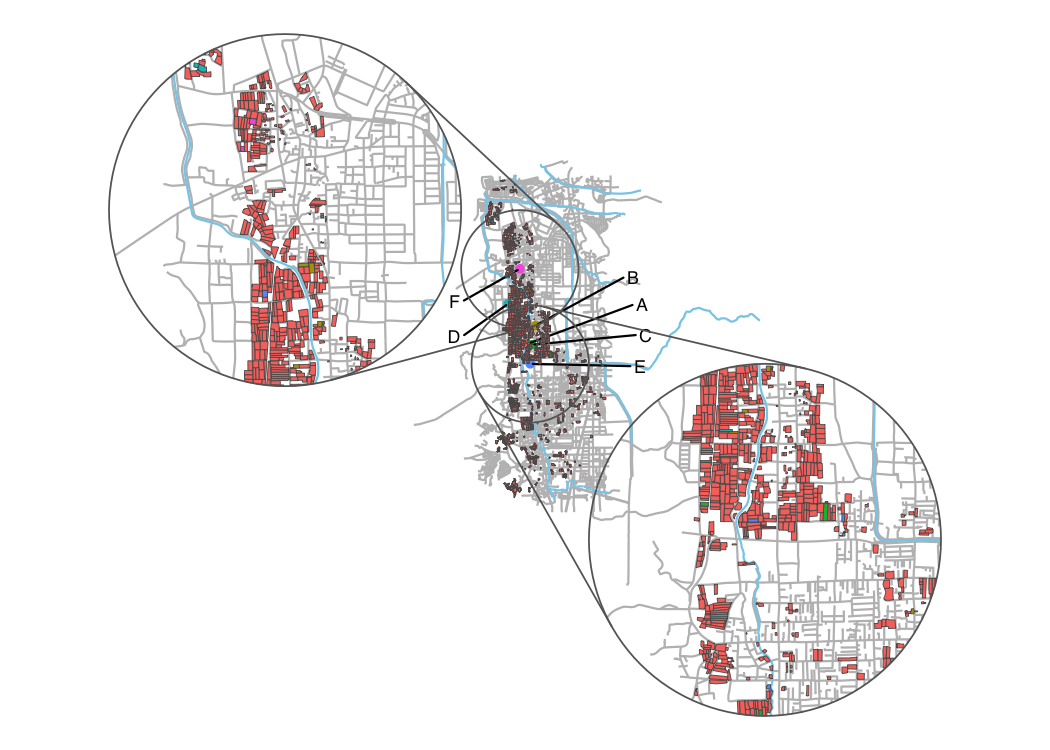
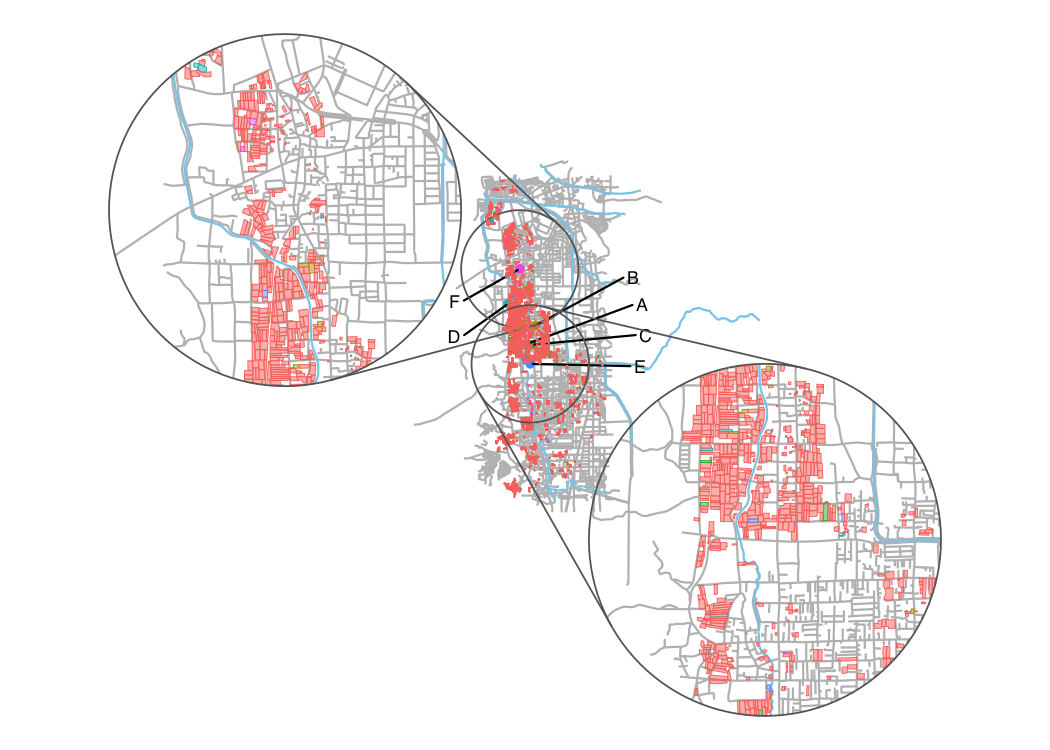
0.3.6.9000

diff --git a/docs/index.html b/docs/index.html
@@ -379,11 +379,11 @@
 <span>                  family <span class="op">=</span> <span class="st">"Helvetica"</span><span class="op">)</span> <span class="op">+</span></span>
 <span>  <span class="fu"><a href="https://cidm-ph.github.io/ggmapinset/reference/geom_sf_inset.html" class="external-link">geom_sf_inset</a></span><span class="op">(</span>data <span class="op">=</span> <span class="va">streets</span><span class="op">$</span><span class="va">osm_lines</span>, colour <span class="op">=</span> <span class="st">"gray"</span>, map_base <span class="op">=</span> <span class="st">"none"</span>, inset <span class="op">=</span> <span class="va">inset1</span><span class="op">)</span> <span class="op">+</span></span>
 <span>  <span class="fu"><a href="https://cidm-ph.github.io/ggmapinset/reference/geom_sf_inset.html" class="external-link">geom_sf_inset</a></span><span class="op">(</span>data <span class="op">=</span> <span class="va">river</span><span class="op">$</span><span class="va">osm_lines</span>, colour <span class="op">=</span> <span class="st">"skyblue"</span>, map_base <span class="op">=</span> <span class="st">"none"</span>, inset <span class="op">=</span> <span class="va">inset1</span><span class="op">)</span> <span class="op">+</span></span>
-<span>  <span class="fu"><a href="https://cidm-ph.github.io/ggmapinset/reference/geom_sf_inset.html" class="external-link">geom_sf_inset</a></span><span class="op">(</span><span class="fu"><a href="https://ggplot2.tidyverse.org/reference/aes.html" class="external-link">aes</a></span><span class="op">(</span>fill <span class="op">=</span> <span class="va">farmer</span><span class="op">)</span>, alpha <span class="op">=</span> <span class="fl">1</span>, map_base <span class="op">=</span> <span class="st">"normal"</span>, inset <span class="op">=</span> <span class="va">inset1</span><span class="op">)</span> <span class="op">+</span></span>
+<span>  <span class="fu"><a href="https://cidm-ph.github.io/ggmapinset/reference/geom_sf_inset.html" class="external-link">geom_sf_inset</a></span><span class="op">(</span><span class="fu"><a href="https://ggplot2.tidyverse.org/reference/aes.html" class="external-link">aes</a></span><span class="op">(</span>fill <span class="op">=</span> <span class="va">farmer</span>, colour <span class="op">=</span> <span class="va">farmer</span><span class="op">)</span>, alpha <span class="op">=</span> <span class="fl">.5</span>, map_base <span class="op">=</span> <span class="st">"normal"</span>, inset <span class="op">=</span> <span class="va">inset1</span><span class="op">)</span> <span class="op">+</span></span>
 <span>  <span class="fu"><a href="https://cidm-ph.github.io/ggmapinset/reference/geom_inset_frame.html" class="external-link">geom_inset_frame</a></span><span class="op">(</span>inset <span class="op">=</span> <span class="va">inset1</span><span class="op">)</span> <span class="op">+</span></span>
 <span>  <span class="fu"><a href="https://cidm-ph.github.io/ggmapinset/reference/geom_sf_inset.html" class="external-link">geom_sf_inset</a></span><span class="op">(</span>data <span class="op">=</span> <span class="va">streets</span><span class="op">$</span><span class="va">osm_lines</span>, colour <span class="op">=</span> <span class="st">"gray"</span>, map_base <span class="op">=</span> <span class="st">"none"</span>, inset <span class="op">=</span> <span class="va">inset2</span><span class="op">)</span> <span class="op">+</span></span>
 <span>  <span class="fu"><a href="https://cidm-ph.github.io/ggmapinset/reference/geom_sf_inset.html" class="external-link">geom_sf_inset</a></span><span class="op">(</span>data <span class="op">=</span> <span class="va">river</span><span class="op">$</span><span class="va">osm_lines</span>, colour <span class="op">=</span> <span class="st">"skyblue"</span>, map_base <span class="op">=</span> <span class="st">"none"</span>, inset <span class="op">=</span> <span class="va">inset2</span><span class="op">)</span> <span class="op">+</span></span>
-<span>  <span class="fu"><a href="https://cidm-ph.github.io/ggmapinset/reference/geom_sf_inset.html" class="external-link">geom_sf_inset</a></span><span class="op">(</span><span class="fu"><a href="https://ggplot2.tidyverse.org/reference/aes.html" class="external-link">aes</a></span><span class="op">(</span>fill <span class="op">=</span> <span class="va">farmer</span><span class="op">)</span>, alpha <span class="op">=</span> <span class="fl">1</span>, map_base <span class="op">=</span> <span class="st">"normal"</span>, inset <span class="op">=</span> <span class="va">inset2</span><span class="op">)</span> <span class="op">+</span></span>
+<span>  <span class="fu"><a href="https://cidm-ph.github.io/ggmapinset/reference/geom_sf_inset.html" class="external-link">geom_sf_inset</a></span><span class="op">(</span><span class="fu"><a href="https://ggplot2.tidyverse.org/reference/aes.html" class="external-link">aes</a></span><span class="op">(</span>fill <span class="op">=</span> <span class="va">farmer</span>, colour <span class="op">=</span> <span class="va">farmer</span><span class="op">)</span>, alpha <span class="op">=</span> <span class="fl">.5</span>, map_base <span class="op">=</span> <span class="st">"normal"</span>, inset <span class="op">=</span> <span class="va">inset2</span><span class="op">)</span> <span class="op">+</span></span>
 <span>  <span class="fu"><a href="https://cidm-ph.github.io/ggmapinset/reference/geom_inset_frame.html" class="external-link">geom_inset_frame</a></span><span class="op">(</span>inset <span class="op">=</span> <span class="va">inset2</span><span class="op">)</span> <span class="op">+</span></span>
 <span>  <span class="fu"><a href="https://ggplot2.tidyverse.org/reference/ggtheme.html" class="external-link">theme_void</a></span><span class="op">(</span><span class="op">)</span> <span class="op">+</span></span>
 <span>  <span class="fu"><a href="https://ggplot2.tidyverse.org/reference/theme.html" class="external-link">theme</a></span><span class="op">(</span>legend.position <span class="op">=</span> <span class="st">"none"</span><span class="op">)</span></span></code></pre></div>

diff --git a/docs/reference/rename_fude.html b/docs/reference/rename_fude.html
@@ -99,7 +99,7 @@ Japanese. Romanji format is upper case unless specified.</p><ul><li><p><code>"ti
     <div class="sourceCode"><pre class="sourceCode r"><code><span class="r-in"><span><span class="va">path</span> <span class="op">&lt;-</span> <span class="fu"><a href="https://rdrr.io/r/base/system.file.html" class="external-link">system.file</a></span><span class="op">(</span><span class="st">"extdata"</span>, <span class="st">"castle.zip"</span>, package <span class="op">=</span> <span class="st">"fude"</span><span class="op">)</span></span></span>
 <span class="r-in"><span><span class="va">d</span> <span class="op">&lt;-</span> <span class="fu"><a href="read_fude.html">read_fude</a></span><span class="op">(</span><span class="va">path</span>, stringsAsFactors <span class="op">=</span> <span class="cn">FALSE</span>, quiet <span class="op">=</span> <span class="cn">FALSE</span><span class="op">)</span></span></span>
 <span class="r-out co"><span class="r-pr">#&gt;</span> Reading layer `2021_382019' from data source </span>
-<span class="r-out co"><span class="r-pr">#&gt;</span>   `/private/var/folders/33/1nmp7drn6c56394qxrzb2cth0000gn/T/RtmpvSPdnl/file137ca50a7437f/castle/2021_382019.json' </span>
+<span class="r-out co"><span class="r-pr">#&gt;</span>   `/private/var/folders/33/1nmp7drn6c56394qxrzb2cth0000gn/T/RtmpUeuXwq/file13b236dad3f7f/castle/2021_382019.json' </span>
 <span class="r-out co"><span class="r-pr">#&gt;</span>   using driver `GeoJSON'</span>
 <span class="r-out co"><span class="r-pr">#&gt;</span> Simple feature collection with 1 feature and 6 fields</span>
 <span class="r-out co"><span class="r-pr">#&gt;</span> Geometry type: POLYGON</span>
@@ -107,7 +107,7 @@ Japanese. Romanji format is upper case unless specified.</p><ul><li><p><code>"ti
 <span class="r-out co"><span class="r-pr">#&gt;</span> Bounding box:  xmin: 132.7653 ymin: 33.84506 xmax: 132.7662 ymax: 33.84575</span>
 <span class="r-out co"><span class="r-pr">#&gt;</span> Geodetic CRS:  WGS 84</span>
 <span class="r-out co"><span class="r-pr">#&gt;</span> Reading layer `2022_382019' from data source </span>
-<span class="r-out co"><span class="r-pr">#&gt;</span>   `/private/var/folders/33/1nmp7drn6c56394qxrzb2cth0000gn/T/RtmpvSPdnl/file137ca50a7437f/castle/2022_382019.json' </span>
+<span class="r-out co"><span class="r-pr">#&gt;</span>   `/private/var/folders/33/1nmp7drn6c56394qxrzb2cth0000gn/T/RtmpUeuXwq/file13b236dad3f7f/castle/2022_382019.json' </span>
 <span class="r-out co"><span class="r-pr">#&gt;</span>   using driver `GeoJSON'</span>
 <span class="r-out co"><span class="r-pr">#&gt;</span> Simple feature collection with 1 feature and 6 fields</span>
 <span class="r-out co"><span class="r-pr">#&gt;</span> Geometry type: POLYGON</span>
@@ -115,7 +115,7 @@ Japanese. Romanji format is upper case unless specified.</p><ul><li><p><code>"ti
 <span class="r-out co"><span class="r-pr">#&gt;</span> Bounding box:  xmin: 132.7653 ymin: 33.84506 xmax: 132.7662 ymax: 33.84575</span>
 <span class="r-out co"><span class="r-pr">#&gt;</span> Geodetic CRS:  WGS 84</span>
 <span class="r-out co"><span class="r-pr">#&gt;</span> Reading layer `2022_382078' from data source </span>
-<span class="r-out co"><span class="r-pr">#&gt;</span>   `/private/var/folders/33/1nmp7drn6c56394qxrzb2cth0000gn/T/RtmpvSPdnl/file137ca50a7437f/castle/2022_382078.json' </span>
+<span class="r-out co"><span class="r-pr">#&gt;</span>   `/private/var/folders/33/1nmp7drn6c56394qxrzb2cth0000gn/T/RtmpUeuXwq/file13b236dad3f7f/castle/2022_382078.json' </span>
 <span class="r-out co"><span class="r-pr">#&gt;</span>   using driver `GeoJSON'</span>
 <span class="r-out co"><span class="r-pr">#&gt;</span> Simple feature collection with 1 feature and 6 fields</span>
 <span class="r-out co"><span class="r-pr">#&gt;</span> Geometry type: POLYGON</span>

diff --git a/docs/reference/read_fude.html b/docs/reference/read_fude.html
@@ -94,7 +94,7 @@ is TRUE.</p></dd>
     <div class="sourceCode"><pre class="sourceCode r"><code><span class="r-in"><span><span class="va">path</span> <span class="op">&lt;-</span> <span class="fu"><a href="https://rdrr.io/r/base/system.file.html" class="external-link">system.file</a></span><span class="op">(</span><span class="st">"extdata"</span>, <span class="st">"castle.zip"</span>, package <span class="op">=</span> <span class="st">"fude"</span><span class="op">)</span></span></span>
 <span class="r-in"><span><span class="va">d</span> <span class="op">&lt;-</span> <span class="fu">read_fude</span><span class="op">(</span><span class="va">path</span>, stringsAsFactors <span class="op">=</span> <span class="cn">FALSE</span><span class="op">)</span></span></span>
 <span class="r-out co"><span class="r-pr">#&gt;</span> Reading layer `2021_382019' from data source </span>
-<span class="r-out co"><span class="r-pr">#&gt;</span>   `/private/var/folders/33/1nmp7drn6c56394qxrzb2cth0000gn/T/RtmpvSPdnl/file137ca1b263717/castle/2021_382019.json' </span>
+<span class="r-out co"><span class="r-pr">#&gt;</span>   `/private/var/folders/33/1nmp7drn6c56394qxrzb2cth0000gn/T/RtmpUeuXwq/file13b235a69e77/castle/2021_382019.json' </span>
 <span class="r-out co"><span class="r-pr">#&gt;</span>   using driver `GeoJSON'</span>
 <span class="r-out co"><span class="r-pr">#&gt;</span> Simple feature collection with 1 feature and 6 fields</span>
 <span class="r-out co"><span class="r-pr">#&gt;</span> Geometry type: POLYGON</span>
@@ -102,7 +102,7 @@ is TRUE.</p></dd>
 <span class="r-out co"><span class="r-pr">#&gt;</span> Bounding box:  xmin: 132.7653 ymin: 33.84506 xmax: 132.7662 ymax: 33.84575</span>
 <span class="r-out co"><span class="r-pr">#&gt;</span> Geodetic CRS:  WGS 84</span>
 <span class="r-out co"><span class="r-pr">#&gt;</span> Reading layer `2022_382019' from data source </span>
-<span class="r-out co"><span class="r-pr">#&gt;</span>   `/private/var/folders/33/1nmp7drn6c56394qxrzb2cth0000gn/T/RtmpvSPdnl/file137ca1b263717/castle/2022_382019.json' </span>
+<span class="r-out co"><span class="r-pr">#&gt;</span>   `/private/var/folders/33/1nmp7drn6c56394qxrzb2cth0000gn/T/RtmpUeuXwq/file13b235a69e77/castle/2022_382019.json' </span>
 <span class="r-out co"><span class="r-pr">#&gt;</span>   using driver `GeoJSON'</span>
 <span class="r-out co"><span class="r-pr">#&gt;</span> Simple feature collection with 1 feature and 6 fields</span>
 <span class="r-out co"><span class="r-pr">#&gt;</span> Geometry type: POLYGON</span>
@@ -110,7 +110,7 @@ is TRUE.</p></dd>
 <span class="r-out co"><span class="r-pr">#&gt;</span> Bounding box:  xmin: 132.7653 ymin: 33.84506 xmax: 132.7662 ymax: 33.84575</span>
 <span class="r-out co"><span class="r-pr">#&gt;</span> Geodetic CRS:  WGS 84</span>
 <span class="r-out co"><span class="r-pr">#&gt;</span> Reading layer `2022_382078' from data source </span>
-<span class="r-out co"><span class="r-pr">#&gt;</span>   `/private/var/folders/33/1nmp7drn6c56394qxrzb2cth0000gn/T/RtmpvSPdnl/file137ca1b263717/castle/2022_382078.json' </span>
+<span class="r-out co"><span class="r-pr">#&gt;</span>   `/private/var/folders/33/1nmp7drn6c56394qxrzb2cth0000gn/T/RtmpUeuXwq/file13b235a69e77/castle/2022_382078.json' </span>
 <span class="r-out co"><span class="r-pr">#&gt;</span>   using driver `GeoJSON'</span>
 <span class="r-out co"><span class="r-pr">#&gt;</span> Simple feature collection with 1 feature and 6 fields</span>
 <span class="r-out co"><span class="r-pr">#&gt;</span> Geometry type: POLYGON</span>

diff --git a/README.md b/README.md
@@ -402,11 +402,11 @@ ggplot(data = db$fude) +
                   family = "Helvetica") +
   geom_sf_inset(data = streets$osm_lines, colour = "gray", map_base = "none", inset = inset1) +
   geom_sf_inset(data = river$osm_lines, colour = "skyblue", map_base = "none", inset = inset1) +
-  geom_sf_inset(aes(fill = farmer), alpha = 1, map_base = "normal", inset = inset1) +
+  geom_sf_inset(aes(fill = farmer, colour = farmer), alpha = .5, map_base = "normal", inset = inset1) +
   geom_inset_frame(inset = inset1) +
   geom_sf_inset(data = streets$osm_lines, colour = "gray", map_base = "none", inset = inset2) +
   geom_sf_inset(data = river$osm_lines, colour = "skyblue", map_base = "none", inset = inset2) +
-  geom_sf_inset(aes(fill = farmer), alpha = 1, map_base = "normal", inset = inset2) +
+  geom_sf_inset(aes(fill = farmer, colour = farmer), alpha = .5, map_base = "normal", inset = inset2) +
   geom_inset_frame(inset = inset2) +
   theme_void() +
   theme(legend.position = "none")
